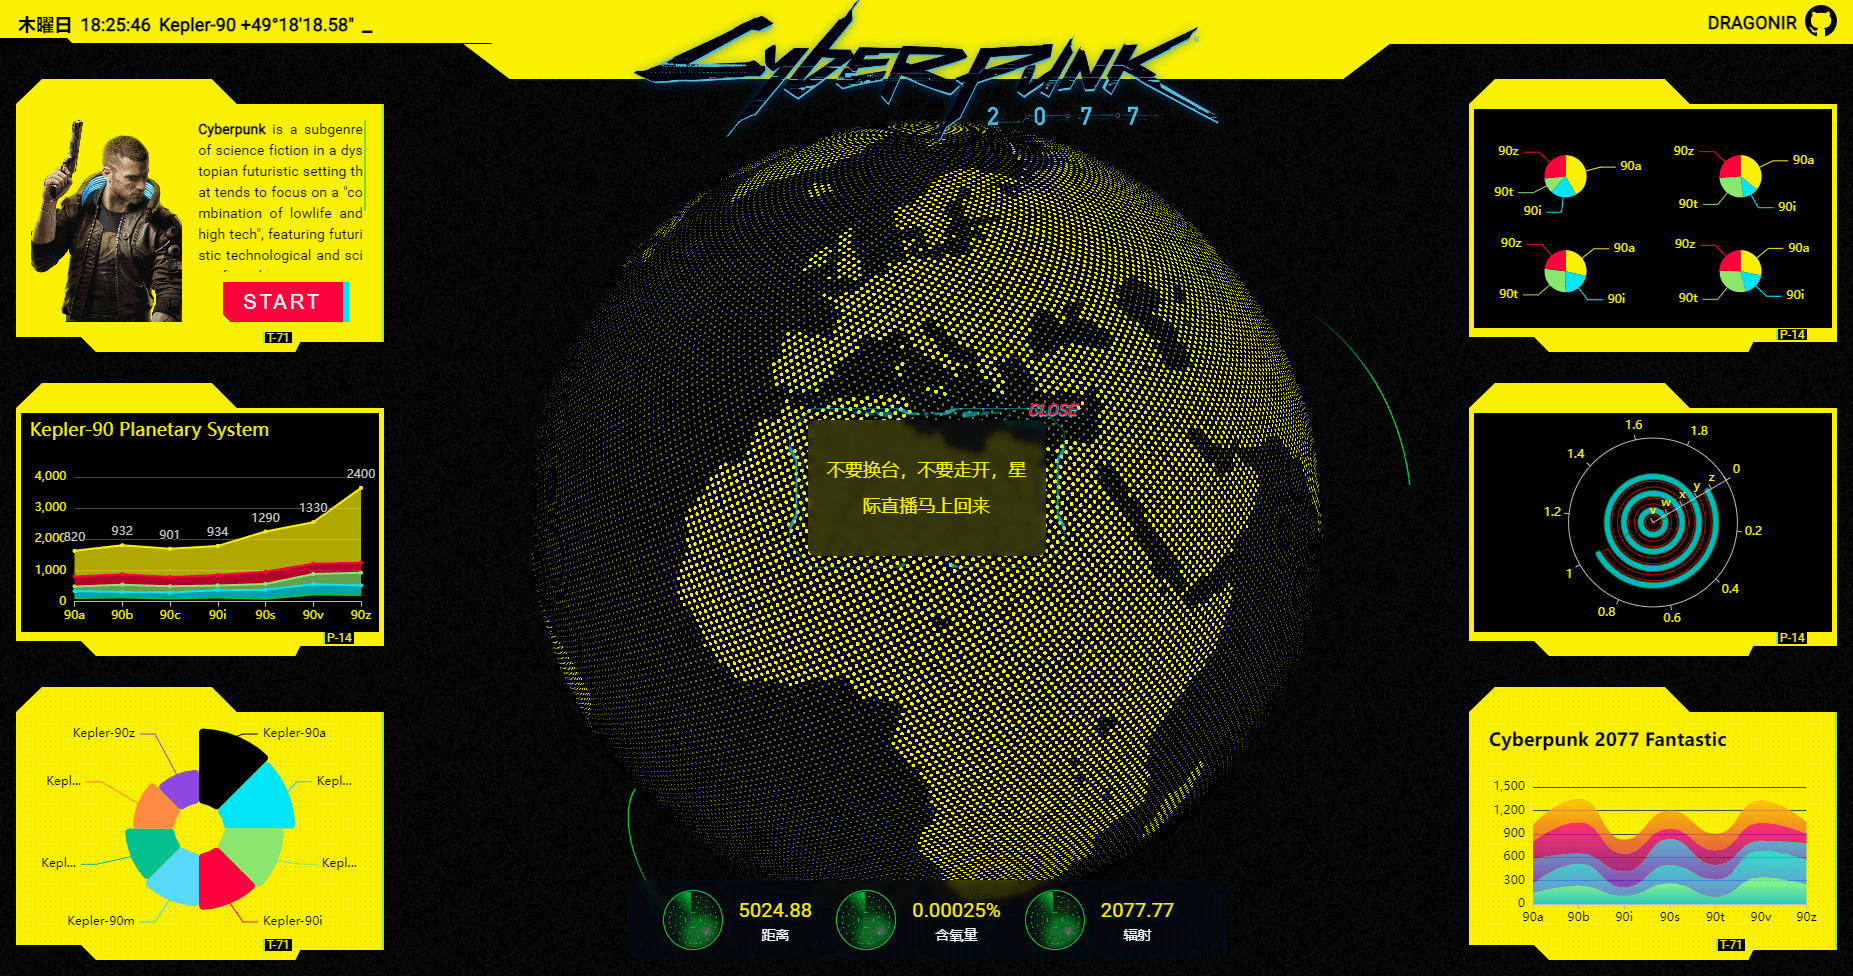
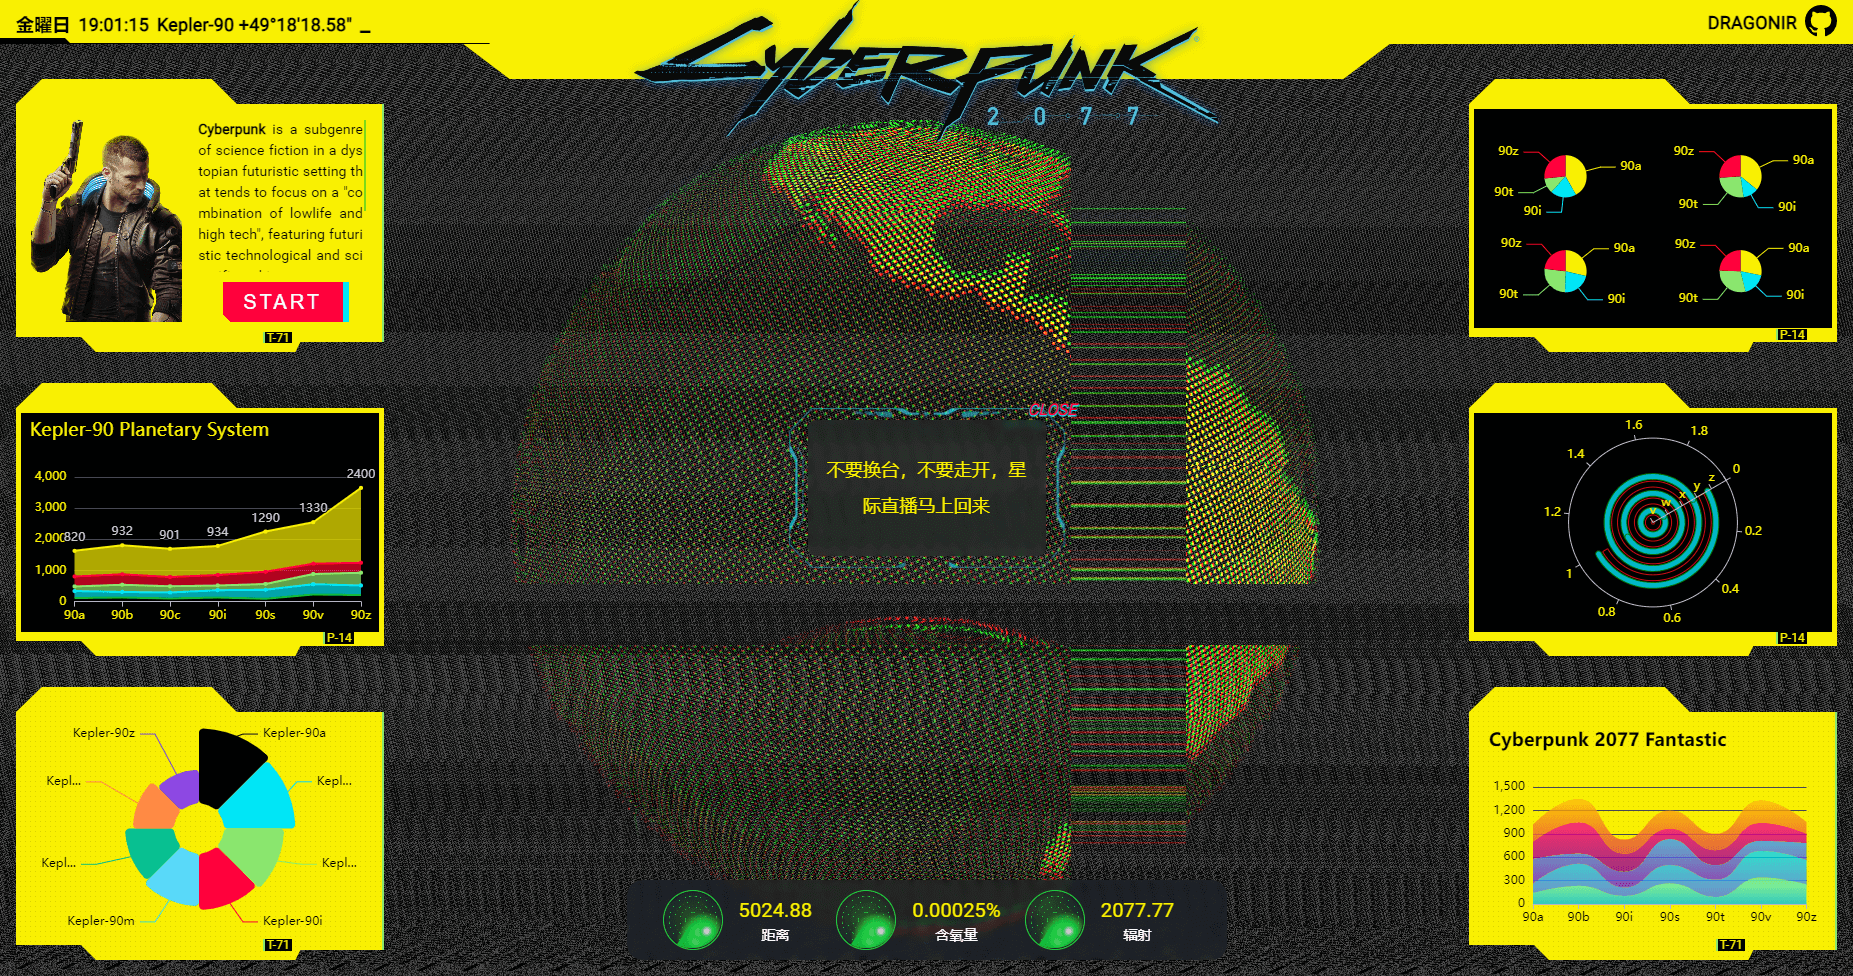
feat: 🌏 earthDigital 文章内容和素材更新，添加故障风格后期效果.

diff --git a/src/containers/EarthDigital/index.js b/src/containers/EarthDigital/index.js
@@ -7,6 +7,9 @@ import { mergeBufferGeometries } from 'three/examples/jsm/utils/BufferGeometryUt
 import * as dat from 'dat.gui';
 import imgData from '@/containers/EarthDigital/images/earth.jpg';
 import lineFragmentShader from '@/containers/EarthDigital/shaders/line/fragment.glsl';
+import { EffectComposer } from 'three/examples/jsm/postprocessing/EffectComposer.js';
+import { RenderPass } from 'three/examples/jsm/postprocessing/RenderPass.js';
+import { GlitchPass } from 'three/examples/jsm/postprocessing/GlitchPass.js';
 import { chart_1_option, chart_2_option, chart_3_option, chart_4_option, chart_5_option, weekMap, tips } from '@/containers/EarthDigital/scripts/config';
 import * as echarts from 'echarts/core';
 import { BarChart, LineChart, PieChart } from 'echarts/charts';
@@ -36,7 +39,8 @@ export default class EarthDigital extends React.Component {
     week: weekMap[new Date().getDay()],
     time: '00:00:00',
     showModal: false,
-    modelText: tips[0]
+    modelText: tips[0],
+    renderGlithPass: false
   }
 
   componentDidMount () {
@@ -62,6 +66,12 @@ export default class EarthDigital extends React.Component {
     });
     renderer.setSize(window.innerWidth, window.innerHeight);
     renderer.setPixelRatio(Math.min(window.devicePixelRatio, 2));
+
+    // 后期
+    const composer = new EffectComposer(renderer);
+    composer.addPass( new RenderPass(scene, camera));
+    const glitchPass = new GlitchPass();
+    composer.addPass(glitchPass);
 
     const controls = new OrbitControls(camera, renderer.domElement);
     controls.enableDamping = true;
@@ -168,6 +178,7 @@ export default class EarthDigital extends React.Component {
       TWEEN.update();
       earth.rotation.y += 0.001;
       renderer.render(scene, camera);
+      this.state.renderGlithPass && composer.render();
     });
 
     const raycaster = new THREE.Raycaster();
@@ -380,7 +391,8 @@ export default class EarthDigital extends React.Component {
     function onWindowResize() {
       camera.aspect = window.innerWidth / window.innerHeight;
       camera.updateProjectionMatrix();
-      renderer.setSize( window.innerWidth, window.innerHeight );
+      renderer.setSize(window.innerWidth, window.innerHeight);
+      composer.setSize(window.innerWidth, window.innerHeight);
     }
   }
 
@@ -424,8 +436,7 @@ export default class EarthDigital extends React.Component {
 
   handleStartButtonClick = () => {
     this.setState({
-      showModal: true,
-      modelText: tips[Math.floor(Math.random() * tips.length)]
+      renderGlithPass: !this.state.renderGlithPass
     });
   }
 
